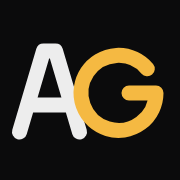
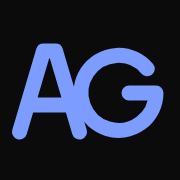
Replace the yellow and cyan with one electric-blue accent
The user found the sun yellow and the cyan monogram unattractive. Of four single-accent previews
rendered on the real site (cyan, electric blue, emerald, monochrome) they picked electric blue:
#7c9cff on dark, #3451d1 ink on light, with #7c9cff as the hover fill in both modes. It now
drives the AG loop, network signals, View resume border glint, link-row wipe, status dot,
featured-card trace and labels. Favicon, apple icon and OG image redrawn in blue.

Contrast (from the built site): accent and monogram 7.2:1 dark, 6.5:1 light on the sheet; link
text on the hover fill 7.5:1.

Changed region(s): [[0.0556, 0.2222, 0.9167, 0.7778]]

diff --git a/app/globals.css b/app/globals.css
@@ -1,9 +1,10 @@
 /* ---------- tokens (see design.md) ---------- */
-/* "Signal" (chosen 2026-10-15 as a mix of three motion previews): graphite + one sun-yellow signal.
+/* "Signal" (chosen 2026-10-15 as a mix of three motion previews): graphite + one electric-blue signal
+   (blue replaced sun yellow and the cyan monogram on 2026-10-15, user's pick of four previews).
    --accent   text-safe signal colour (labels, focus, trace).   --cta/--on-cta  the View resume button.
-   --wipe     link-row hover fill (sun yellow in both modes).    --dot  RGB of the background field's dots.
+   --wipe     link-row hover fill (soft blue in both modes).      --dot  RGB of the background field's dots.
    --status   availability dot (always beside text).             --focus  focus ring (3:1 on --bg).
-   --mark     the AG monogram: cyan, the portfolio's accent (3:1+ on --surface, as a meaningful graphic). */
+   --mark     the AG monogram, in the accent (3:1+ on --surface, as a meaningful graphic). */
 :root {
   color-scheme: light;
   --bg: #f4f4f2;
@@ -12,15 +13,15 @@
   --border: #dcdcd8;
   --text: #111111;
   --muted: #55555a;
-  --accent: #8a5a00;
+  --accent: #3451d1;
   --cta: #111111;
   --on-cta: #f4f4f2;
-  --wipe: #f5b942;
+  --wipe: #7c9cff;
   --on-wipe: #0b0b0c;
-  --focus: #8a5a00;
-  --status: #8a5a00;
+  --focus: #3451d1;
+  --status: #3451d1;
   --dot: 17 17 17;
-  --mark: #0891b2;
+  --mark: #3451d1;
   --shadow: 0 1px 0 rgb(17 17 17 / 0.05), 0 22px 48px -24px rgb(17 17 17 / 0.28);
   --glass: var(--surface);
 
@@ -53,13 +54,13 @@
     --border: #2a2a2e;
     --text: #ededed;
     --muted: #9b9b9f;
-    --accent: #f5b942;
-    --cta: #f5b942;
+    --accent: #7c9cff;
+    --cta: #7c9cff;
     --on-cta: #0b0b0c;
-    --focus: #f5b942;
-    --status: #f5b942;
+    --focus: #7c9cff;
+    --status: #7c9cff;
     --dot: 237 237 237;
-    --mark: #06b6d4;
+    --mark: #7c9cff;
     --shadow: 0 1px 0 rgb(255 255 255 / 0.04), 0 22px 48px -24px rgb(0 0 0 / 0.9);
   }
 }
@@ -71,13 +72,13 @@
   --border: #2a2a2e;
   --text: #ededed;
   --muted: #9b9b9f;
-  --accent: #f5b942;
-  --cta: #f5b942;
+  --accent: #7c9cff;
+  --cta: #7c9cff;
   --on-cta: #0b0b0c;
-  --focus: #f5b942;
-  --status: #f5b942;
+  --focus: #7c9cff;
+  --status: #7c9cff;
   --dot: 237 237 237;
-  --mark: #06b6d4;
+  --mark: #7c9cff;
   --shadow: 0 1px 0 rgb(255 255 255 / 0.04), 0 22px 48px -24px rgb(0 0 0 / 0.9);
 }
 
@@ -171,7 +172,7 @@ a { color: inherit; }
 @media (min-width: 1024px) { .identity { padding: 36px; } }
 
 /* ---------- monogram: plain stroke, the 7 s draw/hold/erase loop ---------- */
-/* Cyan, the portfolio's own accent (#06b6d4), so the mark stands apart from the yellow signals. */
+/* The accent blue, so the loop stands out against the neutral type. */
 .mark { display: block; width: 84px; height: 54px; color: var(--mark); }
 .mark .strokes path { fill: none; stroke: currentColor; stroke-width: 6; stroke-linecap: round; stroke-linejoin: round; }
 @media (prefers-reduced-motion: no-preference) {
@@ -231,7 +232,7 @@ a { color: inherit; }
 /* View resume, matched to the portfolio's "Download Resume" button (abhinesh.codes .btn-outline.btn-glow):
    an outlined mono button with a file icon, a bright segment travelling round its 1 px border every 4 s, and a
    2 px lift on hover. The portfolio animates an @property angle; here a conic layer ROTATES behind a 1 px-inset
-   fill (compositor-only), and the segment is the site's sun yellow instead of the portfolio's cyan/violet. */
+   fill (compositor-only), and the segment is the site's blue instead of the portfolio's cyan/violet. */
 .cta {
   flex: 1;
   position: relative; isolation: isolate; overflow: hidden;
@@ -337,7 +338,7 @@ a { color: inherit; }
   text-decoration: none;
   font-weight: 600;
 }
-/* Ink wipe: sun yellow sweeps in from the left on hover or keyboard focus; text flips to dark on it. */
+/* Ink wipe: the soft blue sweeps in from the left on hover or keyboard focus; text flips to dark on it. */
 .link::before {
   content: ""; position: absolute; inset: 0; z-index: -1;
   background: var(--wipe);

diff --git a/e2e/site.spec.ts b/e2e/site.spec.ts
@@ -106,7 +106,7 @@ for (const scheme of ["light", "dark"] as const) {
         ["--muted", "--surface", 4.5],
         ["--text", "--raised", 4.5],
         ["--on-cta", "--cta", 4.5], // skip link and the viewer's primary button
-        ["--on-wipe", "--wipe", 4.5], // link row text on the sun-yellow hover fill
+        ["--on-wipe", "--wipe", 4.5], // link row text on the blue hover fill
         ["--focus", "--bg", 3], // focus ring
         ["--focus", "--surface", 3],
         ["--accent", "--bg", 4.5], // signal labels and readouts
@@ -414,14 +414,14 @@ test("status: real text immediately, dot hidden from assistive tech", async ({ p
   await expect(status.locator(".dot")).toHaveAttribute("aria-hidden", "true");
 });
 
-test("link rows: sun-yellow wipe on hover and on keyboard focus, text stays readable on it", async ({ page }) => {
+test("link rows: blue wipe on hover and on keyboard focus, text stays readable on it", async ({ page }) => {
   await openIn(page, { colorScheme: "dark", reducedMotion: "no-preference" });
   const link = page.getByRole("link", { name: /GitHub/ });
   const wipe = () => link.evaluate((el) => getComputedStyle(el, "::before").transform);
   expect(await wipe()).toMatch(/^matrix\(0, /); // scaleX(0) at rest
   await link.hover();
   await expect.poll(wipe).toBe("matrix(1, 0, 0, 1, 0, 0)");
-  await expect(link).toHaveCSS("color", "rgb(11, 11, 12)"); // --on-wipe on the yellow fill
+  await expect(link).toHaveCSS("color", "rgb(11, 11, 12)"); // --on-wipe on the blue fill
 });
 
 test("View resume leans toward a nearby pointer and Pause turns that off", async ({ page }) => {

diff --git a/components/Field.tsx b/components/Field.tsx
@@ -7,7 +7,7 @@ type Pulse = { edge: number; t: number; speed: number };
 
 /**
  * Decorative 3D background: a neuron-style network. Nodes sit in a slowly turning 3D volume (rotation about Y and
- * X, perspective projection), neighbours are linked, and sun-yellow signals travel along random links like
+ * X, perspective projection), neighbours are linked, and blue signals travel along random links like
  * firing neurons. A fine pointer turns the network slightly toward it.
  *
  * Costs and guards:
@@ -30,7 +30,7 @@ export default function Field() {
     const fine = matchMedia("(pointer: fine)");
 
     let w = 0, h = 0, raf = 0, start = 0, last = 0;
-    let ink = "237 237 237", signal = "#f5b942";
+    let ink = "237 237 237", signal = "#7c9cff";
     let aimX = 0, aimY = 0, tiltX = 0, tiltY = 0;
     let nodes: Node[] = [];
     let edges: [number, number][] = [];

diff --git a/design.md b/design.md
@@ -16,17 +16,17 @@ redesign with modern motion. Three static themes (Mono Terminal, Ink and Paper, 
 a **mix of all three on Signal Field's palette**, then asked for a 3D "neuron linkage" background, a View resume
 button styled like the portfolio's Download Resume button, and ideas from professional sites.
 
-- **Palette:** graphite + one sun-yellow signal (the yellow carries over from the earlier brand). Flat surfaces,
+- **Palette:** graphite + one electric-blue signal (it replaced sun yellow on 2026-10-15). Flat surfaces,
   no gradients, glow, glass or blur.
 - **Background:** a 3D neuron network on a canvas (`components/Field.tsx`): nodes in a slowly turning volume,
-  linked to neighbours, with yellow signals travelling along the links; it turns slightly toward the pointer.
+  linked to neighbours, with blue signals travelling along the links; it turns slightly toward the pointer.
 - **Surfaces:** solid sheets (`--surface`) with a 1 px border and a soft shadow; every piece of text sits on a
   sheet or on the solid page colour, never on the network.
-- **Monogram:** the AG strokes in cyan (`--mark`, the portfolio's `#06b6d4`; user's request 2026-10-15, to make
-  the loop stand out), no tile, on the 7 s draw/hold/erase loop. Cyan is used nowhere else.
+- **Monogram:** the AG strokes in the accent blue (`--mark`), so the loop stands out against the neutral type; no
+  tile, on the 7 s draw/hold/erase loop.
 - **Type:** Geist for display and body, JetBrains Mono for labels, handles, status and every button (as on the portfolio).
-- **Yellow is the only other colour:** network signals, the View resume border glint, the link-row hover wipe, the
-  status dot, the featured-card trace and labels in dark mode (`#8a5a00` ink in light mode for text-safe contrast).
+- **Blue is the only colour:** the AG loop, network signals, the View resume border glint, the link-row hover wipe,
+  the status dot, the featured-card trace and labels (`#7c9cff` on dark, `#3451d1` ink on light for text contrast).
 
 **Inspiration (2026-10-15):** brittanychiang.com (sticky identity column while content scrolls), rauno.me
 (indented statement lines, one bold flat signal colour), leerob.com and emilkowal.ski (restraint: short copy,
@@ -35,7 +35,7 @@ motion mostly on interaction).
 ## Reading order
 
 1. Monogram, name (second line indented, muted), role, availability status
-2. **View resume** (portfolio-style outline button with a travelling yellow border; opens `/resume/`) + Email (plain outline)
+2. **View resume** (portfolio-style outline button with a travelling blue border; opens `/resume/`) + Email (plain outline)
 3. Featured project sheet
 4. Link groups: Work, then Elsewhere
 5. Tools: copy email, QR code, colour mode, pause motion (a quiet toolbar of borderless buttons)
@@ -55,13 +55,13 @@ On a 390 × 844 phone, the resume button sits in the first viewport.
 | `--border` | `#2a2a2e` | `#dcdcd8` | sheet and row borders |
 | `--text` | `#ededed` | `#111111` | body |
 | `--muted` | `#9b9b9f` | `#55555a` | secondary text, second name line |
-| `--accent` | `#f5b942` | `#8a5a00` | signal, text-safe: labels, readouts, trace |
-| `--cta` / `--on-cta` | `#f5b942` / `#0b0b0c` | `#111111` / `#f4f4f2` | skip link, viewer primary button |
-| `--wipe` / `--on-wipe` | `#f5b942` / `#0b0b0c` | same | link-row hover fill and its text |
-| `--focus` | `#f5b942` | `#8a5a00` | focus ring |
-| `--status` | `#f5b942` | `#8a5a00` | availability dot (always with text) |
+| `--accent` | `#7c9cff` | `#3451d1` | signal, text-safe: labels, readouts, trace |
+| `--cta` / `--on-cta` | `#7c9cff` / `#0b0b0c` | `#111111` / `#f4f4f2` | skip link, viewer primary button |
+| `--wipe` / `--on-wipe` | `#7c9cff` / `#0b0b0c` | same | link-row hover fill and its text |
+| `--focus` | `#7c9cff` | `#3451d1` | focus ring |
+| `--status` | `#7c9cff` | `#3451d1` | availability dot (always with text) |
 | `--dot` | `237 237 237` | `17 17 17` | RGB of the network's nodes and links |
-| `--mark` | `#06b6d4` | `#0891b2` | AG monogram (cyan, the portfolio's accent; 7.8:1 / 3.7:1 on the sheet) |
+| `--mark` | `#7c9cff` | `#3451d1` | AG monogram in the accent (7.2:1 / 6.5:1 on the sheet) |
 
 The end-to-end suite checks contrast from the built site, in both modes: text, muted, on-cta/cta, on-wipe/wipe,
 focus/bg, focus/surface, accent/bg, accent/surface, status/surface, mark/surface and muted/raised.
@@ -98,14 +98,14 @@ releases `transform` for the tilt and magnet. A test fails if any entrance keyfr
 - **Sheets:** the identity and featured sheets settle with a spring (`cubic-bezier(.34,1.4,.5,1)`, 24 px, -1 deg);
   link rows rise 16 px in a 55 ms stagger.
 - **Network background:** about 90 nodes (56 on phones) in a turning volume (one turn about every 105 s), links
-  found once (rotation keeps distances), six yellow signals hopping node to node. Starts only once the animation
+  found once (rotation keeps distances), six blue signals hopping node to node. Starts only once the animation
   clock runs; still frame under reduced motion, Pause, or a hidden tab. `data-field` records still/running.
 - **Featured sheet:** tilts toward the pointer (up to 5 deg) with its title, stack and links shifting 2-5 px; a short
-  yellow run traces its border on hover or keyboard focus.
-- **View resume:** the portfolio's outline button with a yellow segment travelling round the 1 px border every 4 s
+  blue run traces its border on hover or keyboard focus.
+- **View resume:** the portfolio's outline button with a blue segment travelling round the 1 px border every 4 s
   (a rotating conic layer, compositor-only), a 2 px lift on hover, and a magnetic lean (up to 8 / 6 px) toward a
   nearby pointer.
-- **Link rows:** a sun-yellow wipe sweeps in from the left on hover or keyboard focus; the name slides 6 px and the
+- **Link rows:** a soft blue wipe sweeps in from the left on hover or keyboard focus; the name slides 6 px and the
   arrow turns 45 deg.
 - **Monogram loop (7 s):** both letters draw together over 1.6 s at one pen speed (dash lengths 140 and 160), hold
   about 3.8 s, erase over 1 s, a 0.4 s beat, redraw. Fully drawn in the HTML; the loop class is added only once the
@@ -145,3 +145,6 @@ releases `transform` for the tilt and magnet. A test fails if any entrance keyfr
   cursor spotlight glow, the violet bevel button, the gradient status chip, link icon tiles, the monogram's tile,
   gradient and sheen. Font changed from Plus Jakarta Sans to Geist. Favicon and OG image redrawn to match.
   "Neuron linkage" was read as a neural network of linked nodes (it echoes the portfolio's constellation).
+- 2026-10-15: The user found the yellow and a cyan-only monogram unattractive. Of four single-accent previews on
+  the real site (cyan, electric blue, emerald, monochrome) they picked **electric blue** for everything, including
+  the AG loop, favicon and OG image.
